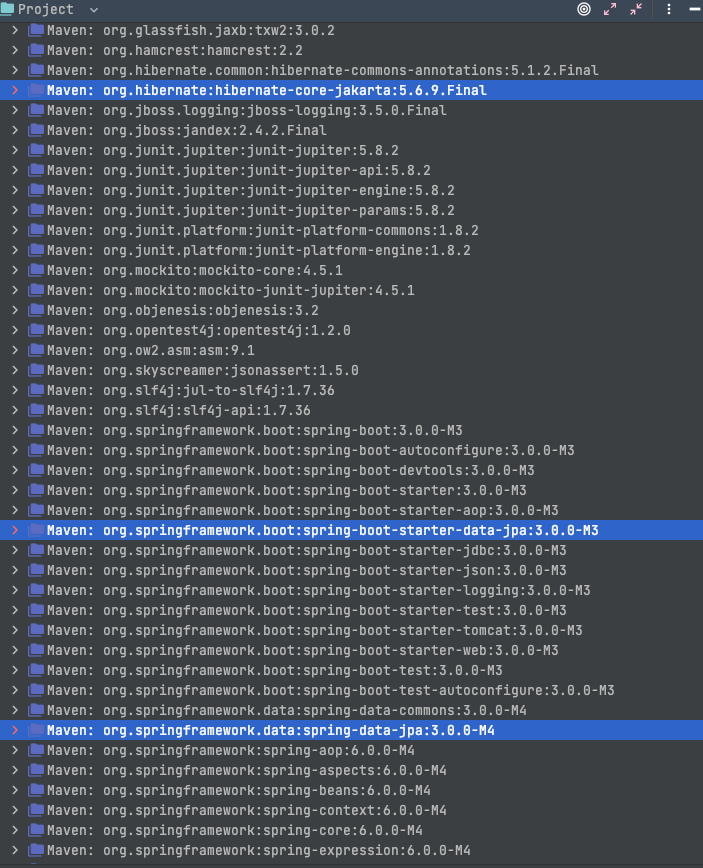
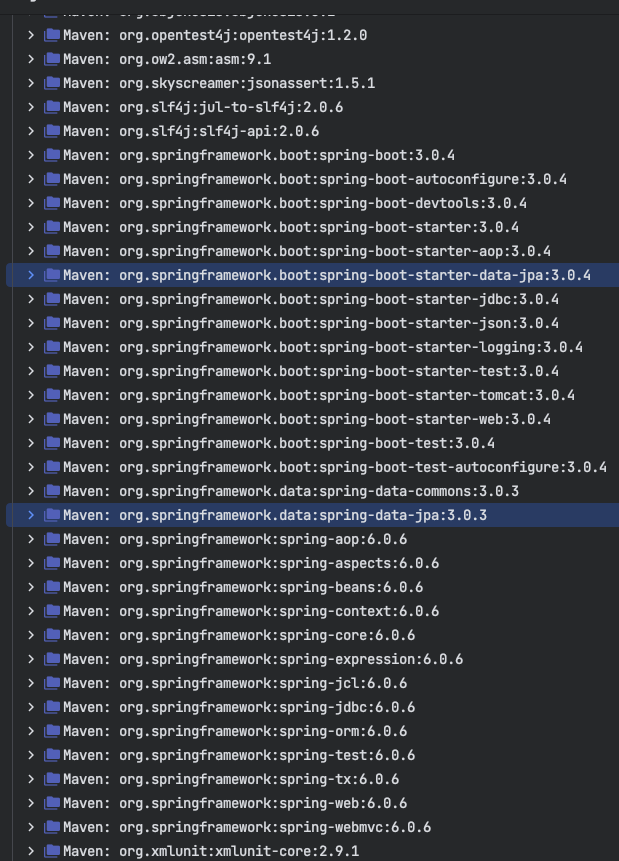
Upgrade to Spring Boot 3 Latest

diff --git a/_blog/articles/2017-12-01-spring-boot-and-jpa-hibernate-with-h2-top20.md b/_blog/articles/2017-12-01-spring-boot-and-jpa-hibernate-with-h2-top20.md
@@ -1,8 +1,8 @@
 ---
 layout:     post
 title:      Integrating Hibernate and JPA with Spring Boot
-date:       2022-07-02 07:55:19
-summary:    Learn using Spring Boot Starter JPA to connect Spring Boot to H2 (in memory database) using Hibernate/JPA. You will learn the basics of JPA and Hibernate - Entities and Keys. We will create a simple repository extending JPARepository and explore different methods it exposes.
+date:       2023-03-20 07:55:19
+summary:    Discover how to connect Spring Boot to H2 (in memory database) with Hibernate/JPA by utilising Spring Boot Starter JPA. The fundamentals of JPA and Hibernate - Entities and Keys - will be covered. We will create a simple repository extending JPARepository and explore different methods it exposes.
 categories:  SpringBootJPA
 permalink:  /hibernate-jpa-tutorial-with-spring-boot-starter-jpa
 image: /images/spring-data-category.png
@@ -10,7 +10,7 @@ image: /images/spring-data-category.png
 
 ![Image](/images/spring-initializer-web-h2-devtools-jpa.png)
 
-This guide will help you create a simple project with Spring Boot and connect to a database using Hibernate/JPA. We will use Spring Boot Starter JPA and in memory database H2.
+This post will show you how to establish a simple Spring Boot project and connect to a database using Hibernate/JPA. Spring Boot Starter JPA and the in-memory database H2 will be used.
 
 ![Image](/images/JPA_02_Architecture.png "JPA Architecuture")
  
@@ -28,14 +28,13 @@ This guide will help you create a simple project with Spring Boot and connect to
 [![Image](/images/Course-Master-Hibernate-and-JPA-with-Spring-Boot-in-100-Steps.png "Master Hibernate and JPA with Spring Boot in 100 Steps")](https://links.in28minutes.com/MISC-JPA){:target="_blank"}
 
 
+## Structure of the Project Code
 
-## Project Code Structure
-
-Following screenshot shows the structure of the project we will create.
+The screenshot below depicts the framework of the project we will be creating.
 
 ![Image](/images/SpringBootwithJPA-ProjectStructure.png "Spring Boot with JPA - Project Structure") 
 
-A few details:
+A few specifics:
 
 - `Student.java` - Entity bean to store student details.
 - `StudentRepository.java` - Extends JpaRepository. Acts as a repository to update/retrieve Student entities.
@@ -45,52 +44,49 @@ A few details:
 
 ## Tools you will need
 - Maven 3.0+ is your build tool
-- Your favorite IDE. We use Eclipse.
+- Your favorite IDE. We use Eclipse or IntelliJ.
 - JDK 17+
 
-## Complete Maven Project With Code Examples
+## Maven Project Completion using Code Samples
 > Our Github repository has all the code examples - https://github.com/in28minutes/spring-boot-examples/tree/master/spring-boot-2-jpa-with-hibernate-and-h2
 
 
+## How Does JPA/Hibernate Function?
 
+Tables/Relations are used to design databases. OOPS is used to develop Java objects. We'd want to save data from objects to tables and vice versa.
 
+Previous techniques required the creation of SQL Queries. Popular techniques included JDBC, Spring JDBC, and myBatis.
 
-## How does JPA/Hibernate Work?
+JPA, on the other hand, arose as a result of a different conceptual process. 
 
-Databases are designed with Tables/Relations. Java objects are designed using OOPS. We would want to store the data from objects into tables and vice-versa.
-
-Earlier approaches involved writing SQL Queries. JDBC, Spring JDBC and myBatis were popular approaches.
-
-However, JPA evolved as a result of a different thought process. 
-
-> How about mapping the objects directly to tables/relationships?
+> What about mapping the objects to tables/relationships directly?
  
-This Mapping is also called ORM - Object Relational Mapping. Before JPA, ORM was the term more commonly used to refer to these frameworks. Thats one of the reasons, Hibernate is called a ORM framework.
+ORM - Object Relational Mapping - is another name for this mapping. Prior to JPA, these frameworks were more generally referred to as ORM. It is one of the reasons Hibernate is referred to as an ORM framework.
 
-## Important Concepts in JPA
+## Key JPA Concepts
 
 ![Image](/images/JPA_02_Architecture.png "JPA Architecuture")
 
 JPA allows to map application classes to tables in database.
-- Entity Manager - Once the mappings are defined, entity manager can manage your entities. Entity Manager handles all interactions with the database
-- JPQL (Java Persistence Query Language) - Provides ways to write queries to execute searches against entities. Important thing to understand is the these are different from SQL queries. JPQL queries already understand the mappings that are defined between entities. We can add additional conditions as needed.
-- Criteria API defines a Java based API to execute searches against databases.
+- `Entity Manager` - Entity manager may manage your entities after the mappings are defined. Entity Manager manages all database interactions.
+- `JPQL (Java Persistence Query Language)` - Offers methods for writing queries to do entity searches. It is critical to recognise that these are not SQL queries. JPQL queries are already aware of the mappings that exist between entities. More criteria can be added as needed.
+- `Criteria API` specifies a Java-based API for doing database searches.
 
-## JPA vs Hibernate
+## Choosing between JPA and Hibernate
 
-Hibernate is one of the most popular ORM frameworks. 
+One of the most popular ORM frameworks is Hibernate.
 
-JPA defines the specification. It is an API. 
+The specification is defined by JPA. It is a programming interface.
  - How do you define entities?
  - How do you map attributes?
  - How do you map relationships between entities?
  - Who manages the entities?
 
-Hibernate is one of the popular implementations of JPA.
- - Hibernate understands the mappings that we add between objects and tables. It ensures that data is stored/retrieved from the database based on the mappings.
- - Hibernate also provides additional features on top of JPA. But depending on them would mean a lock in to Hibernate. You cannot move to other JPA implementations like Toplink.
+Hibernate is a well-known JPA implementation.
+ - Hibernate recognises the mappings we create between objects and tables. It guarantees that data is stored and retrieved from the database in accordance with the mappings.
+ - Hibernate extends JPA with extra functionality. But, relying on them would bind you to Hibernate. You cannot switch to another JPA implementation, such as Toplink.
 
-## Creating the Project with Spring Initializr
+## Spring Initializr is used to create a project.
 
 Spring Initializr [http://start.spring.io/](http://start.spring.io/){:target="_blank"} is great tool to bootstrap your Spring Boot projects.
 
@@ -149,7 +145,7 @@ Below picture highlights some of the dependencies that are part of the imported 
 
 > Key Question : How did all these dependencies come in?
 
-All these dependencies are defined in spring-boot-starter-jpa. As soon as we include Spring Boot Starter JPA in our project (pom.xml), we get the following features from a wide variety of dependencies
+Spring-boot-starter-jpa defines all of these dependencies. We obtain the following functionalities from a wide range of dependencies as soon as we include Spring Boot Starter JPA in our project (pom.xml).
 - AOP
 - Transaction Management
 - JPA API
@@ -161,33 +157,37 @@ Extract below shows some code from pom.xml of spring-boot-starter-jpa.
 <dependency>
   <groupId>org.springframework.boot</groupId>
   <artifactId>spring-boot-starter-aop</artifactId>
-  <version>3.0.0-M3</version>
+  <version>3.0.4</version>
   <scope>compile</scope>
 </dependency>
 <dependency>
   <groupId>org.springframework.boot</groupId>
   <artifactId>spring-boot-starter-jdbc</artifactId>
-  <version>3.0.0-M3</version>
+  <version>3.0.4</version>
   <scope>compile</scope>
 </dependency>
 <dependency>
-  <groupId>org.hibernate</groupId>
+  <groupId>org.springframework.boot</groupId>
+  <artifactId>spring-boot-starter-jdbc</artifactId>
+  <version>3.0.4</version>
+   <scope>compile</scope>
+</dependency>
+<dependency>
+  <groupId>org.hibernate.orm</groupId>
   <artifactId>hibernate-core</artifactId>
+  <version>6.1.7.Final</version>
   <scope>compile</scope>
 </dependency>
 <dependency>
-  <groupId>jakarta.transaction</groupId>
-  <artifactId>jakarta.transaction-api</artifactId>
-  <scope>compile</scope>
-</dependency>
-<dependency>
-  <groupId>org.springframework.data</groupId>
-  <artifactId>spring-data-jpa</artifactId>
-  <scope>compile</scope>
+   <groupId>org.springframework.data</groupId>
+   <artifactId>spring-data-jpa</artifactId>
+   <version>3.0.3</version>
+   <scope>compile</scope>
 </dependency>
 <dependency>
   <groupId>org.springframework</groupId>
   <artifactId>spring-aspects</artifactId>
+  <version>6.0.6</version>
   <scope>compile</scope>
 </dependency>
 ```
@@ -216,9 +216,9 @@ When you use the right JDBC URL given above, you should see an empty schema when
 
 ![Image](/images/H2-Console-Empty-Schema.png "H2 Console Empty Page") 
 
-### Create Your First JPA Entity
+### Make Your Very First JPA Entity
 
-The first step is to create a JPA Entity. Lets create a simple Student Entity with a primary key id.
+The first thing to do is to build a JPA Entity. Let's start with a basic Student Entity with a primary key id.
 
 
 ```java
@@ -293,41 +293,39 @@ Important things to note:
  - ```public Student()```: Default constructor to make JPA Happy
 
 
-When the application reloads, you can launch H2 console at http://localhost:8080/h2-console.
+You may launch H2 console when the programme reloads. http://localhost:8080/h2-console.
 
-You will see that a new table called 'student' is created in H2 Console.
+On H2 Console, you will notice that a new table called `student` is generated.
 
 > How did the Student table get created?
 
 Its because of Spring Boot Auto Configuration. We will talk about this a little later.
 
-Let's now populate some data into the student table.
+Let's now add some information to the student table.
 
 /src/main/resources/data.sql
 
-```
-insert into student
-values(10001,'Ranga', 'E1234567');
+```sql
+insert into student values(10001,'Ranga', 'E1234567');
 
-insert into student
-values(10002,'Ravi', 'A1234568');
+insert into student values(10002,'Ravi', 'A1234568');
 ```
 
-When the application reloads you would see following statements in the log indicating that the sql files are picked up.
+After you refresh the application, you should see the following messages in the log showing that the sql files have been picked up.
 
 ```
 Executing SQL script from URL [file:/in28Minutes/git/spring-boot-examples/spring-boot-2-jdbc-with-h2/target/classes/data.sql]
 ```
 
-After App Reload, When you login to H2 Console (http://localhost:8080/h2-console) you can see that the student table is created and the data is populated.
+When you connect to H2 Console (http://localhost:8080/h2-console) after reloading the app, you will notice that the student table has been created and the data has been loaded.
 
 ![Image](/images/H2-Console-With-Student.png "H2 Console With Student")
 
-## Create Repository class to Read Student information
+## Build a Repository class to read Student data.
 
 /src/main/java/com/in28minutes/springboot/jpa/hibernate/h2/example/student/StudentRepository.java
 
-We create a simple interface StudentRepository extending JpaRepository.
+We extend JpaRepository to create a simple interface called StudentRepository.
 
 ```java
 package com.in28minutes.springboot.jpa.hibernate.h2.example.student;
@@ -341,8 +339,8 @@ public interface StudentRepository extends JpaRepository<Student, Long>{
 }
 ```
 Notes
-- We will talk about all the methods in the JpaRepository a little later.
-- `public interface StudentRepository extends JpaRepository<Student, Long>` - We are extending JpaRepository using two generics - Student & Long. Student is the entity that is being managed and the primary key of Student is Long.
+- We'll go over all of the methods in the JpaRepository later.
+- `public interface StudentRepository extends JpaRepository<Student, Long>` - JpaRepository is being extended with two generics: Student and Long. The entity being handled is Student, and the main key of Student is Long.
 
 ### JpaRepository
 
@@ -412,41 +410,40 @@ Some of the log that is generated (later when we execute queries) when we turn s
 
 Session Level Metrics
 ```
-i.StatisticalLoggingSessionEventListener : Session Metrics {
-    23004 nanoseconds spent acquiring 1 JDBC connections;
+023-03-22T13:37:31.818+05:30  INFO 18636 --- [  restartedMain] i.StatisticalLoggingSessionEventListener : Session Metrics {
+    25207 nanoseconds spent acquiring 1 JDBC connections;
     0 nanoseconds spent releasing 0 JDBC connections;
-    41930 nanoseconds spent preparing 1 JDBC statements;
-    174065 nanoseconds spent executing 1 JDBC statements;
+    1381963 nanoseconds spent preparing 1 JDBC statements;
+    351842 nanoseconds spent executing 1 JDBC statements;
     0 nanoseconds spent executing 0 JDBC batches;
     0 nanoseconds spent performing 0 L2C puts;
     0 nanoseconds spent performing 0 L2C hits;
     0 nanoseconds spent performing 0 L2C misses;
     0 nanoseconds spent executing 0 flushes (flushing a total of 0 entities and 0 collections);
-    5125 nanoseconds spent executing 1 partial-flushes (flushing a total of 0 entities and 0 collections)
+    0 nanoseconds spent executing 0 partial-flushes (flushing a total of 0 entities and 0 collections)
+}
+
 ```
 
 Queries and Parameters
 ```
+2023-03-22T13:37:31.819+05:30  INFO 18636 --- [  restartedMain] ibernateAndH2Application$$SpringCGLIB$$0 : Student id 10001 -> Optional[Student [id=10001, name=Ranga, passportNumber=E1234567]]
 Hibernate: 
     select
-        student0_.id as id1_0_,
-        student0_.name as name2_0_,
-        student0_.passport_number as passport3_0_ 
-    from
-        student student0_
-2017-12-05 10:20:59.457 TRACE 26877 --- [  restartedMain] o.h.type.descriptor.sql.BasicExtractor   : extracted value ([id1_0_] : [BIGINT]) - [1]
-2017-12-05 10:20:59.458 TRACE 26877 --- [  restartedMain] o.h.type.descriptor.sql.BasicExtractor   : extracted value ([name2_0_] : [VARCHAR]) - [John]
-2017-12-05 10:20:59.458 TRACE 26877 --- [  restartedMain] o.h.type.descriptor.sql.BasicExtractor   : extracted value ([passport3_0_] : [VARCHAR]) - [A1234657]
-2017-12-05 10:20:59.458 TRACE 26877 --- [  restartedMain] o.h.type.descriptor.sql.BasicExtractor   : extracted value ([id1_0_] : [BIGINT]) - [10001]
-2017-12-05 10:20:59.458 TRACE 26877 --- [  restartedMain] o.h.type.descriptor.sql.BasicExtractor   : extracted value ([name2_0_] : [VARCHAR]) - [Name-Updated]
-2017-12-05 10:20:59.458 TRACE 26877 --- [  restartedMain] o.h.type.descriptor.sql.BasicExtractor   : extracted value ([passport3_0_] : [VARCHAR]) - [New-Passport]
-2017-12-05 10:20:59.458 DEBUG 26877 --- [  restartedMain] o.h.s.internal.ConcurrentStatisticsImpl  : HHH000117: HQL: select generatedAlias0 from Student as generatedAlias0, time: 1ms, rows: 2
+        next value for student_seq
+Hibernate: 
+    insert 
+    into
+        student
+        (name, passport_number, id) 
+    values
+        (?, ?, ?)
 
 ```
 
 ## Exploring JpaRepository methods
 
-Code belows shows the SpringBoot2JPAWithHibernateAndH2Application class extended to execute some of the StudentRepository methods.
+The code below extends the SpringBoot2JPAWithHibernateAndH2Application class to perform some StudentRepository methods.
 
 ```java
 @SpringBootApplication
@@ -564,7 +561,7 @@ CREATE TABLE employee
 
 #### Example 2 - Inheritance Startegies - InheritanceType.SINGLE_TABLE
 
-Some times multiple classes are mapped to a single table and vice-versa. In these situations, we define a inheritance strategy. In this example, we use a strategy of InheritanceType.SINGLE_TABLE.
+Several classes are sometimes mapped to a single table, and vice versa. In these cases, we devise an inheritance approach. In this example, we employ an InheritanceType technique. SINGLE TABLE.
 
 Objects
 
@@ -606,6 +603,6 @@ CREATE TABLE employee
 
 ```
 
-## Complete Code Example
+## Example of Full Code
 
 Github repository has all the code examples - https://github.com/in28minutes/spring-boot-examples/tree/master/spring-boot-2-jpa-with-hibernate-and-h2

diff --git a/_blog/articles/2017-10-14-spring-interview-questions.md b/_blog/articles/2017-10-14-spring-interview-questions.md
@@ -1,19 +1,19 @@
 ---
 layout:     post
 title:      Spring Interview Questions and Answers - Course
-date:       2022-10-29 12:31:19
-summary:    Preparing for the spring interview is tricky. There are a wide variety of spring modules and spring projects that you would need to review and be prepared to answer questions on. You would need to get a good understanding of the new features of Spring and have a firm grasp of the concepts you implemented in your projects. This course helps you prepare for the Spring Interview with code examples covering 200+ Spring Interview Questions and Answers on Spring, Spring Boot, Spring MVC, Spring JDBC, JPA, AOP, RESTful Services, and SOAP Web Services. 
+date:       2023-03-20 12:31:19
+summary:    It is difficult to prepare for the spring interview. There are several spring modules and spring projects that you must examine and be prepared to answer questions on. You would need to get a solid understanding of the new Spring features as well as the principles you used in your projects. This course provides code examples that cover 200+ Spring Interview Questions and Answers on Spring, Spring Boot, Spring MVC, Spring JDBC, JPA, AOP, RESTful Services, and SOAP Web Services. 
 categories: SpringBoot
 permalink:  /spring-and-spring-boot-interview-guide
 image: /images/spring-framework-category.png
 
 ---
 
-The Spring Framework is the most popular Java framework ever. It continues to evolve with changing architectures. The Spring Boot is one of the most popular spring projects. Spring Boot is the most commonly used Java framework to develop RESTful services and microservices.
+The Spring Framework is the most widely used Java framework. It is still evolving as architectures change. One of the most popular spring crafts is the Spring Boot. Spring Boot is the most popular Java framework for creating RESTful applications and microservices.
 
-Preparing for spring and spring boot interviews is tricky. There are a wide variety of Spring Modules and Spring Projects you would need to recollect and be prepared to answer questions on. You would need to get a good understanding of the new features of Spring and have a firm grasp of the concepts you implemented in your projects.
+It is difficult to prepare for spring and spring boot interviews. There are several Spring Modules and Spring Projects that you must remember and be prepared to answer questions on. You would need to get a solid understanding of the new Spring features as well as the principles you used in your projects.
 
-This course helps you prepare for the Spring Interview with code examples covering 200+ Spring Interview Questions and Answers on Spring, Spring Boot, Spring MVC, Spring JDBC, JPA, AOP, RESTful Services, and SOAP Web Services. 
+This course provides code examples that cover 200+ Spring Interview Questions and Answers on Spring, Spring Boot, Spring MVC, Spring JDBC, JPA, AOP, RESTful Services, and SOAP Web Services.
 
 
 
